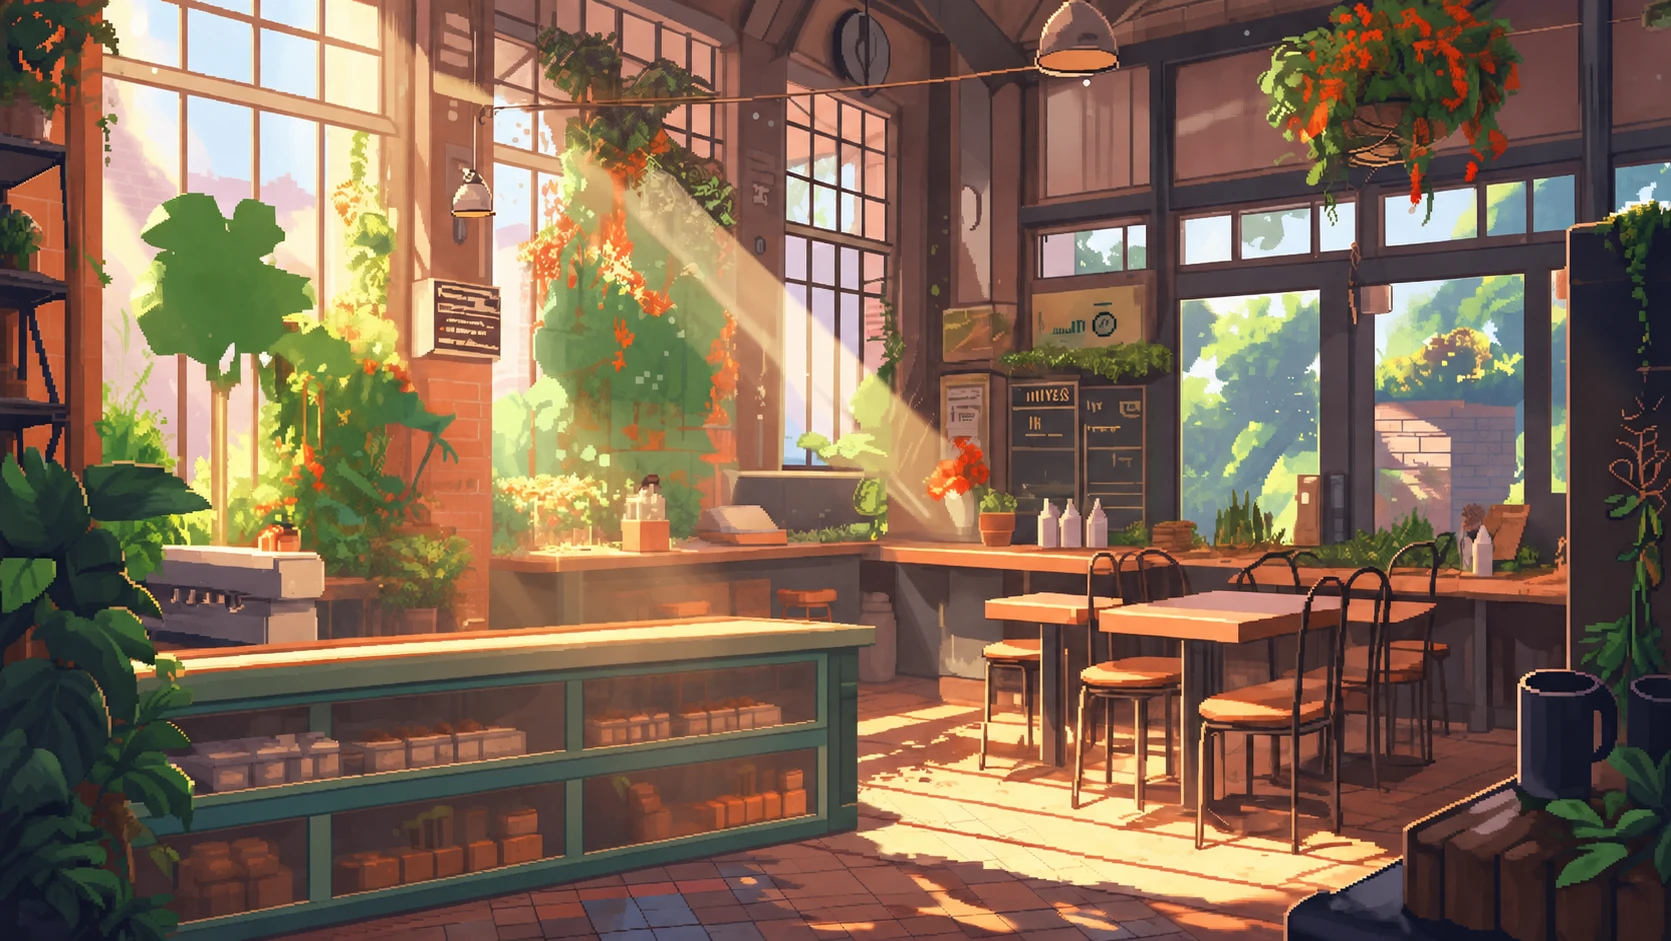
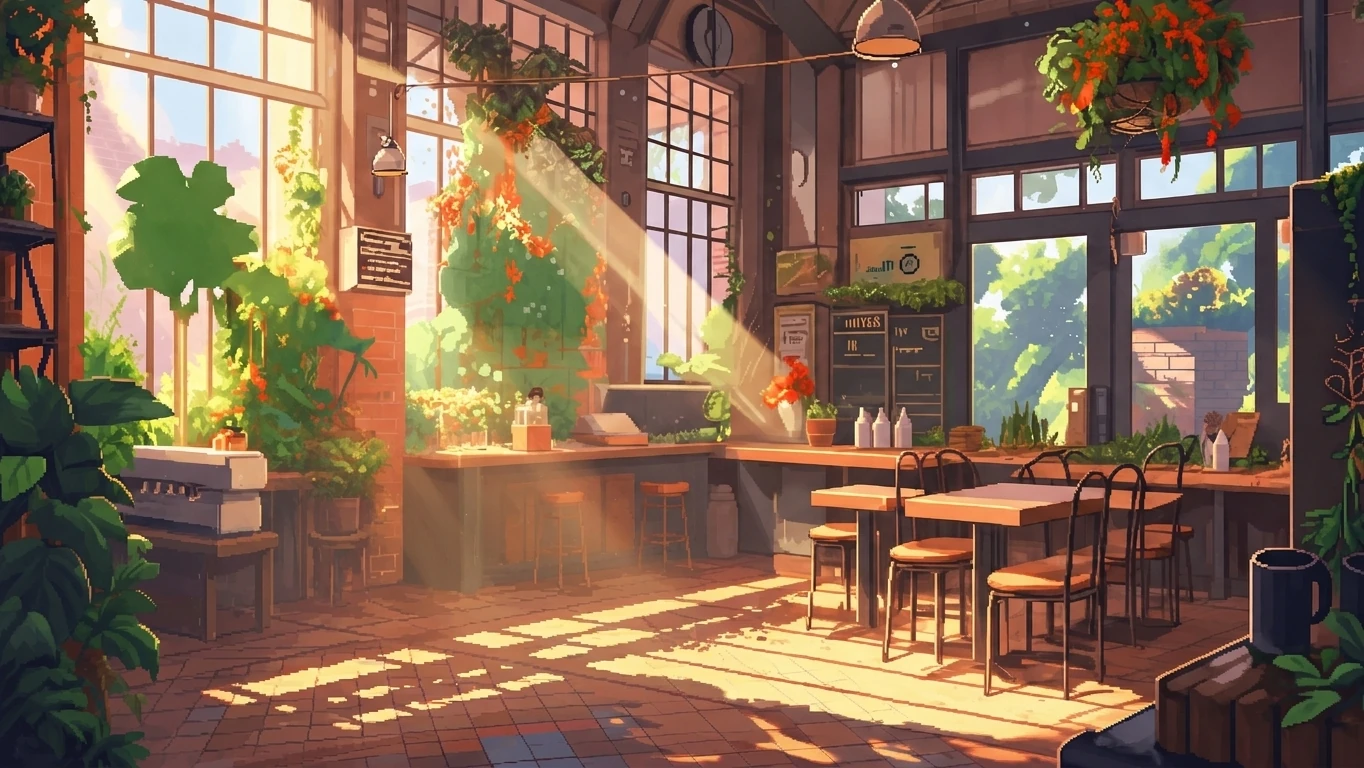
feat: overlay counter asset

diff --git a/src/App.tsx b/src/App.tsx
@@ -1,16 +1,28 @@
 import background from './assets/background.webp'
+import counter from './assets/counter.webp'
 
 function App() {
   return (
     <div
       style={{
+        position: 'relative',
         backgroundImage: `url(${background})`,
         backgroundSize: 'cover',
         backgroundPosition: 'center',
         flex: 1,
       }}
     >
-      ...
+      <img
+        src={counter}
+        alt=""
+        style={{
+          position: 'absolute',
+          bottom: '-20vh',
+          left: '-8vw',
+          width: '60%',
+          transform: 'rotate(-0.4deg)',
+        }}
+      />
     </div>
   )
 }
